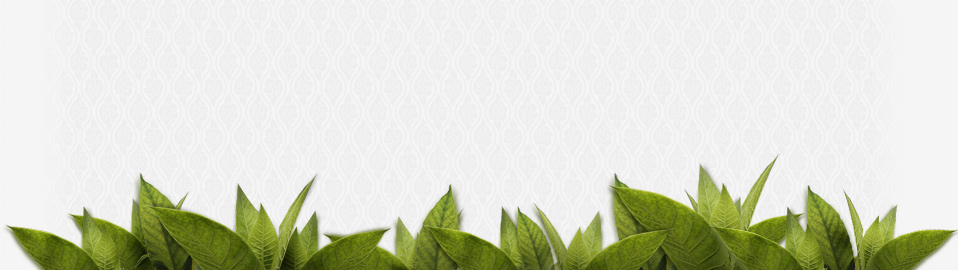
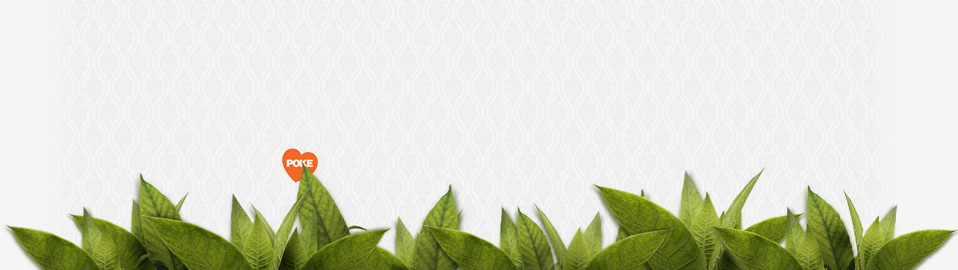
Embedded heart in mainImage.jpg for all media queries

Changed region(s): [[0.1514, 0.5333, 0.3935, 1.0], [0.6054, 0.5926, 0.8173, 1.0]]

diff --git a/cigarworld/index.html b/cigarworld/index.html
@@ -29,7 +29,7 @@
 		}
 
 		#containerCW {
-			margin-top: -137px;
+			margin-top: -138px;
 		}
 
 		#headerCW {
@@ -59,12 +59,12 @@
 			}
 
 			#containerCW {
-				margin-top: -190px;
+				margin-top: -114px;
 			}
 
 			#headerCW {
 		 		font-size: 45pt;
-				top: -285px;
+				top: -315px;
 				left: 10px;
 			}
 
@@ -82,12 +82,12 @@
 			}
 
 			#containerCW {
-				margin-top: -115px;
+				margin-top: -62px;
 			}
 						
 			#headerCW {
 				font-size: 25pt;
-				top: -135px;
+				top: -150px;
 				left: 10px;
 			}
 					
@@ -102,10 +102,14 @@
 				background: #fff url('../cigarworld/images/mainImage3.jpg') top center;
 				height: 270px;
 			}
+			
+			#containerCW {
+				margin-top: -76px;
+			}
 
 			#headerCW {
 				font-size: 30pt;
-				top: -190px;
+				top: -205px;
 				left: 10px;
 			}
 		
